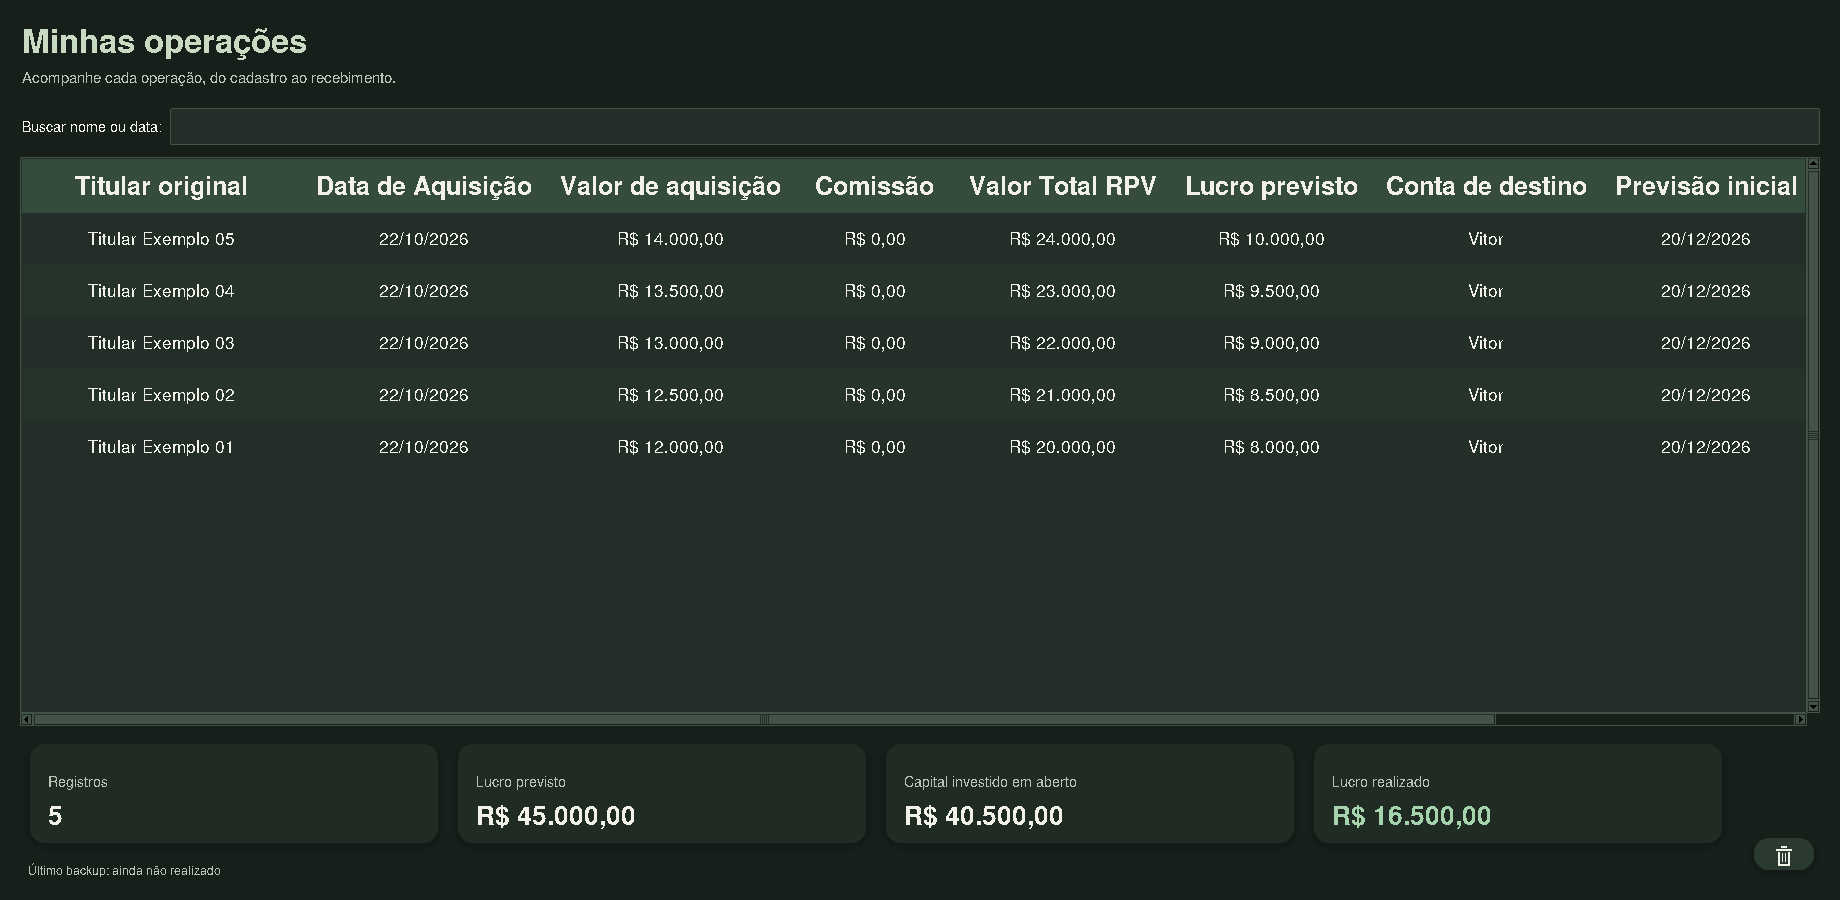
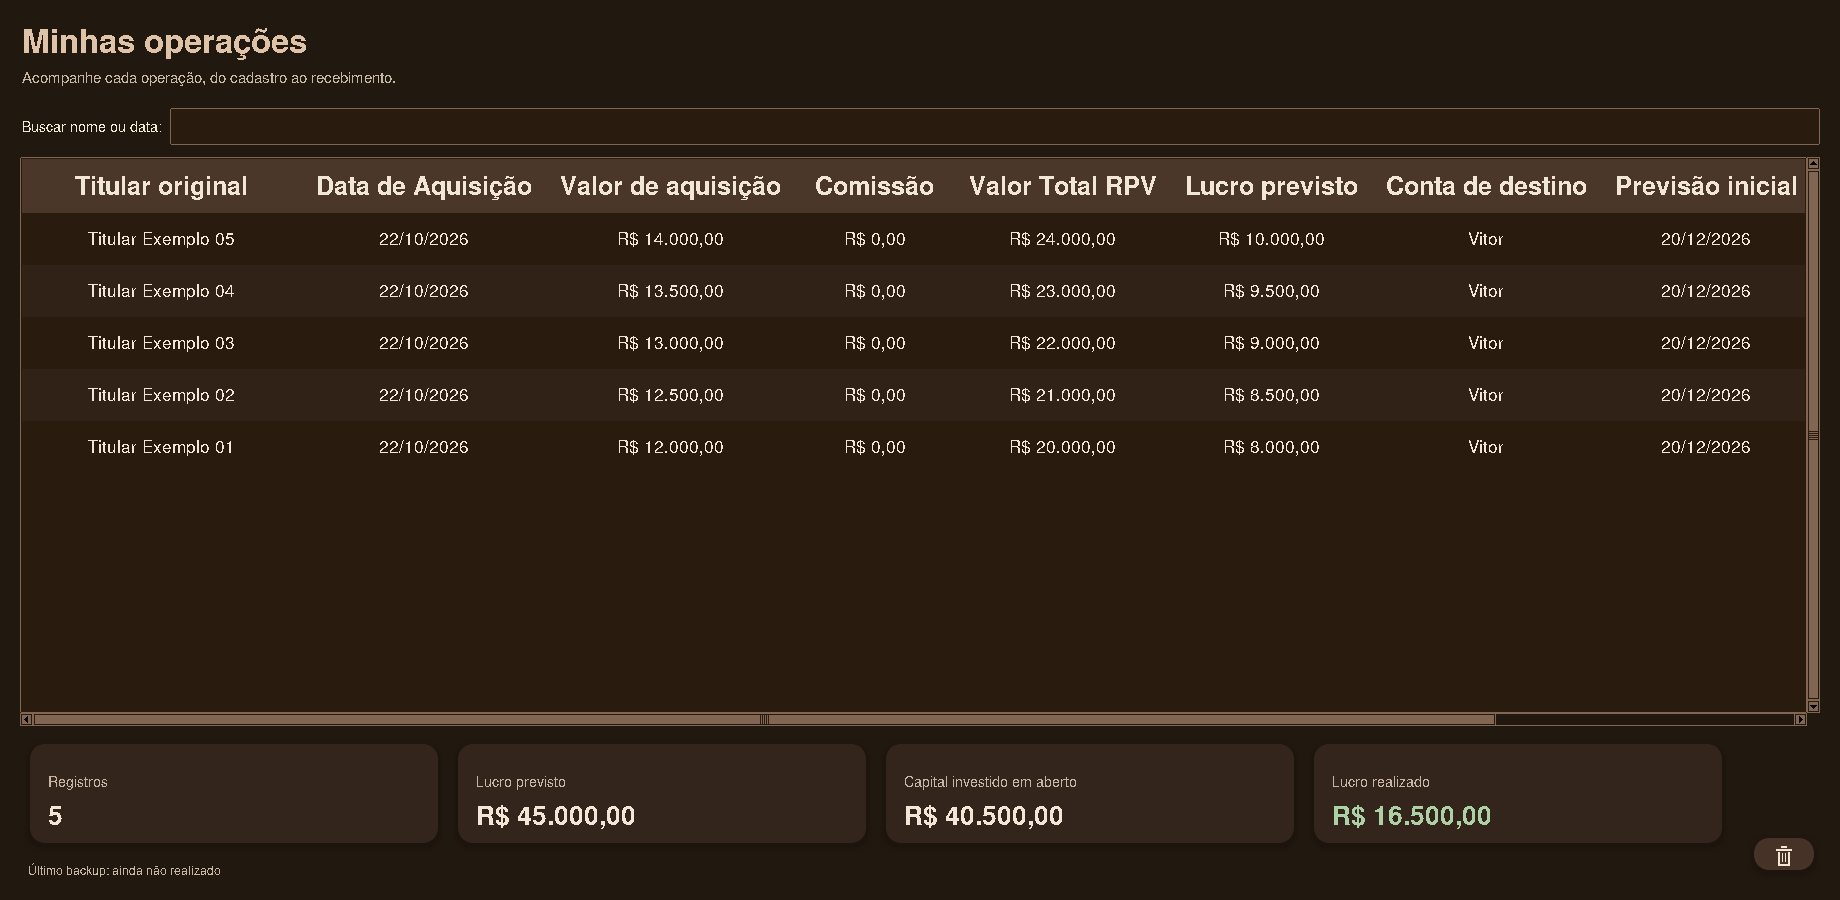
Renova temas claro e escuro com paleta de areia e café na versão 0.16.2

diff --git a/tema.py b/tema.py
@@ -3,16 +3,16 @@ import tkinter as tk
 from tkinter import ttk
 
 PALETAS = {
-    'claro': dict(fundo='#f4f1ea', campo='#fffdf8', superficie='#f8f5ef', texto='#20372c',
-                  secundario='#616b61', botao='#eeebe3', borda='#d8d9ce', ativo='#dce4d4',
-                  selecao='#c5d3bb', texto_selecao='#193b2a', verde='#286443', vermelho='#a33b32',
-                  desabilitado='#697263', primario='#254d38', primario_ativo='#316148',
-                  primario_pressionado='#193c2a', floresta='#254d38', sage='#dce4d3', linha='#f2f3eb'),
-    'escuro': dict(fundo='#171f1b', campo='#222e27', superficie='#202b24', texto='#f1f1e8',
-                   secundario='#b7c3b4', botao='#2b3a30', borda='#435347', ativo='#3c5141',
-                   selecao='#415e49', texto_selecao='#ffffff', verde='#a5d4ac', vermelho='#f1a49a',
-                   desabilitado='#a9b7a4', primario='#a9bea0', primario_ativo='#c1d0b9',
-                   primario_pressionado='#91ab87', floresta='#c9dac2', sage='#354b3b', linha='#26332b'),
+    'claro': dict(fundo='#e1d4c2', campo='#faf5ed', superficie='#f0e6d9', texto='#291c0e',
+                  secundario='#695447', botao='#e9ddce', borda='#a78d78', ativo='#d6c2ae',
+                  selecao='#d2b8a2', texto_selecao='#291c0e', verde='#305d3c', vermelho='#993c30',
+                  desabilitado='#7a6a5b', primario='#6e473b', primario_texto='#fff8ef', primario_ativo='#59372d',
+                  primario_pressionado='#41281f', floresta='#6e473b', sage='#beb5a9', linha='#f0e8dc'),
+    'escuro': dict(fundo='#21180f', campo='#291c0e', superficie='#33251b', texto='#f2e6d6',
+                   secundario='#c7b6a4', botao='#463227', borda='#806653', ativo='#533c2f',
+                   selecao='#654a3b', texto_selecao='#fff5e7', verde='#acd1a5', vermelho='#f3aaa0',
+                   desabilitado='#ae9985', primario='#c6a68c', primario_texto='#291c0e', primario_ativo='#dfc3a8',
+                   primario_pressionado='#a78d78', floresta='#dfc3a8', sage='#4a3729', linha='#302217'),
 }
 _modo = 'claro'
 

diff --git a/app.py b/app.py
@@ -165,7 +165,7 @@ class Aplicativo:
             estilo.theme_use(nome_tema)
             c = cores()
             fundo,campo,texto = c['fundo'],c['campo'],c['texto']
-            primario_texto = '#fffdf8' if self.modo_tema.get()=='claro' else '#193623'
+            primario_texto = c['primario_texto']
             estilo.configure('.',font=(fonte,10),background=fundo,foreground=texto,
                              bordercolor=c['borda'],lightcolor=campo,darkcolor=fundo,troughcolor=fundo)
             aplicar_superficies(self.janela)

diff --git a/visual.py b/visual.py
@@ -60,7 +60,7 @@ def _png_recebido(c,selecionado):
     """Indicador de 24 px; a margem separa a caixa da data do recebimento."""
     fundo=_rgb(c['primario'] if selecionado else c['campo'])
     borda=_rgb(c['primario'] if selecionado else c['secundario'])
-    marca=_rgb('#fffdf8' if sum(_rgb(c['primario']))<384 else '#193623')
+    marca=_rgb(c['primario_texto'])
     def segmento(x,y,a,b):
         dx,dy=b[0]-a[0],b[1]-a[1]
         t=max(0,min(1,((x-a[0])*dx+(y-a[1])*dy)/(dx*dx+dy*dy)))

diff --git a/versao.py b/versao.py
@@ -1,2 +1,2 @@
 """Versão da entrega publicada no GitHub com a tag correspondente."""
-VERSAO = '0.16.1'
+VERSAO = '0.16.2'

diff --git a/README.md b/README.md
@@ -1,4 +1,4 @@
-# Gestor de RPV — 0.16.1
+# Gestor de RPV — 0.16.2
 
 Aplicativo pessoal para Windows, em Python com Tkinter e SQLite. Cada computador
 mantém seus próprios dados, sem servidor ou sincronização. Não exige pacotes extras.
@@ -14,20 +14,22 @@ python app.py
 
 Mantenha `app.py`, `dados.py`, `componentes.py`, `contas.py`, `interacao.py`, `tema.py`, `calculadora.py`, `backup.py`, `ordenacao.py`, `selecao.py`, `documentos.py`, `visual.py` e `versao.py` juntos.
 A tela inicial tem os botões **Nova entrada**, **Minhas operações**,
-**Contas de recebimento** e **Sair**. A assinatura **Vitoran Tech · v0.16.1** aparece no canto inferior direito.
+**Contas de recebimento** e **Sair**. A assinatura **Vitoran Tech · v0.16.2** aparece no canto inferior direito.
 O número é lido da versão do programa e acompanha cada atualização.
 As janelas abrem centralizadas; o histórico abre maximizado no Windows.
 
-## Identidade visual Moss
+## Identidade visual
 
-Visual inspirado em verde floresta, sálvia e marfim, com uma versão escura em tons
-verdes profundos. O botão **Modo escuro / Modo claro**, com ícones de lua e sol, alterna a
+Visual inspirado na paleta areia (`#E1D4C2`), bege (`#BEB5A9`), caramelo (`#A78D78`),
+marrom (`#6E473B`) e café (`#291C0E`). O modo claro usa superfícies suaves e o escuro
+usa fundos em café com detalhes em caramelo. Recebimentos e lucro realizado continuam
+em verde. O botão **Modo escuro / Modo claro**, com ícones de lua e sol, alterna a
 aparência; o menu **Exibir** do histórico oferece as mesmas opções.
 
 - Tela inicial com três cartões de ações e ícones desenhados em Python, sem numeração.
   A assinatura Vitoran Tech fica somente no rodapé.
 - Temas e fontes reutilizados, com renderização das sombras otimizada para agilizar a alternância.
-- Cantos arredondados, sombras discretas e verde nas ações principais.
+- Cantos arredondados, sombras discretas e tons de marrom e caramelo nas ações principais.
   Os botões não mostram retângulo tracejado após o clique; a navegação por
   teclado e a ativação pela barra de espaço continuam disponíveis.
 - Fonte Segoe UI no Windows, com alternativas locais em outros sistemas.
@@ -42,6 +44,8 @@ aparência; o menu **Exibir** do histórico oferece as mesmas opções.
 
 ![Tela inicial](docs/tela-inicial.png)
 
+[Ver a tela inicial no modo escuro](docs/tela-inicial-escura.png)
+
 ![Histórico com dados demonstrativos](docs/historico.png)
 
 [Ver a prévia do modo escuro](docs/historico-escuro.png)
@@ -53,7 +57,7 @@ aparência; o menu **Exibir** do histórico oferece as mesmas opções.
 - **Editar → Editar registro / Excluir registro**: edita uma linha ou envia as selecionadas à lixeira.
 - **Exibir → Tema claro / Tema escuro**: muda o tema de todas as janelas,
   inclusive formulários, calendários, menus de contexto e calculadora.
-  A escolha vale durante a execução; o aplicativo inicia no tema claro inspirado na paleta Moss.
+  A escolha vale durante a execução; o aplicativo inicia no tema claro em tons de areia.
 - **Calculadora**: abre uma calculadora independente, sem modificar o cadastro.
   Faz soma, subtração, multiplicação, divisão, porcentagem, troca de sinal e
   apagamento. Aceita vírgula, teclado, Enter para calcular e Esc para limpar.

diff --git a/CHANGELOG.md b/CHANGELOG.md
@@ -1,5 +1,11 @@
 # Histórico de versões
 
+## 0.16.2
+
+- Nova paleta inspirada em areia, caramelo e marrom para os modos claro e escuro.
+- Cores aplicadas em todas as janelas, campos, tabelas, calendários, ícones e menus.
+- Contraste dos botões e caixas de seleção adaptado a cada tema, preservando o verde de recebimentos e lucros realizados.
+
 ## 0.16.1
 
 - Cabeçalhos de Minhas operações mantidos em 18 pontos e linhas ajustadas para 12 pontos.
